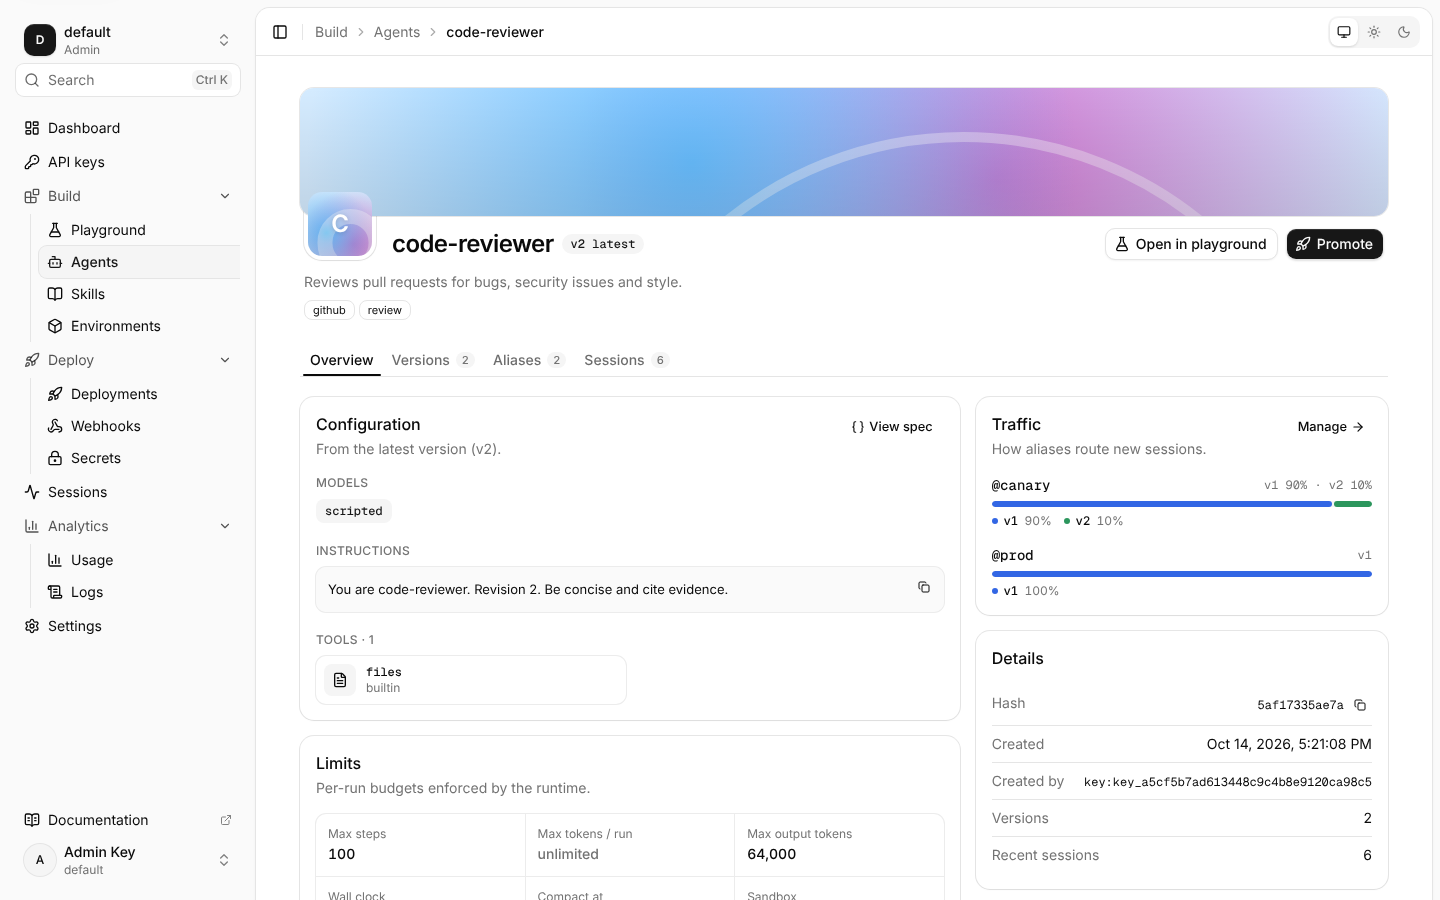
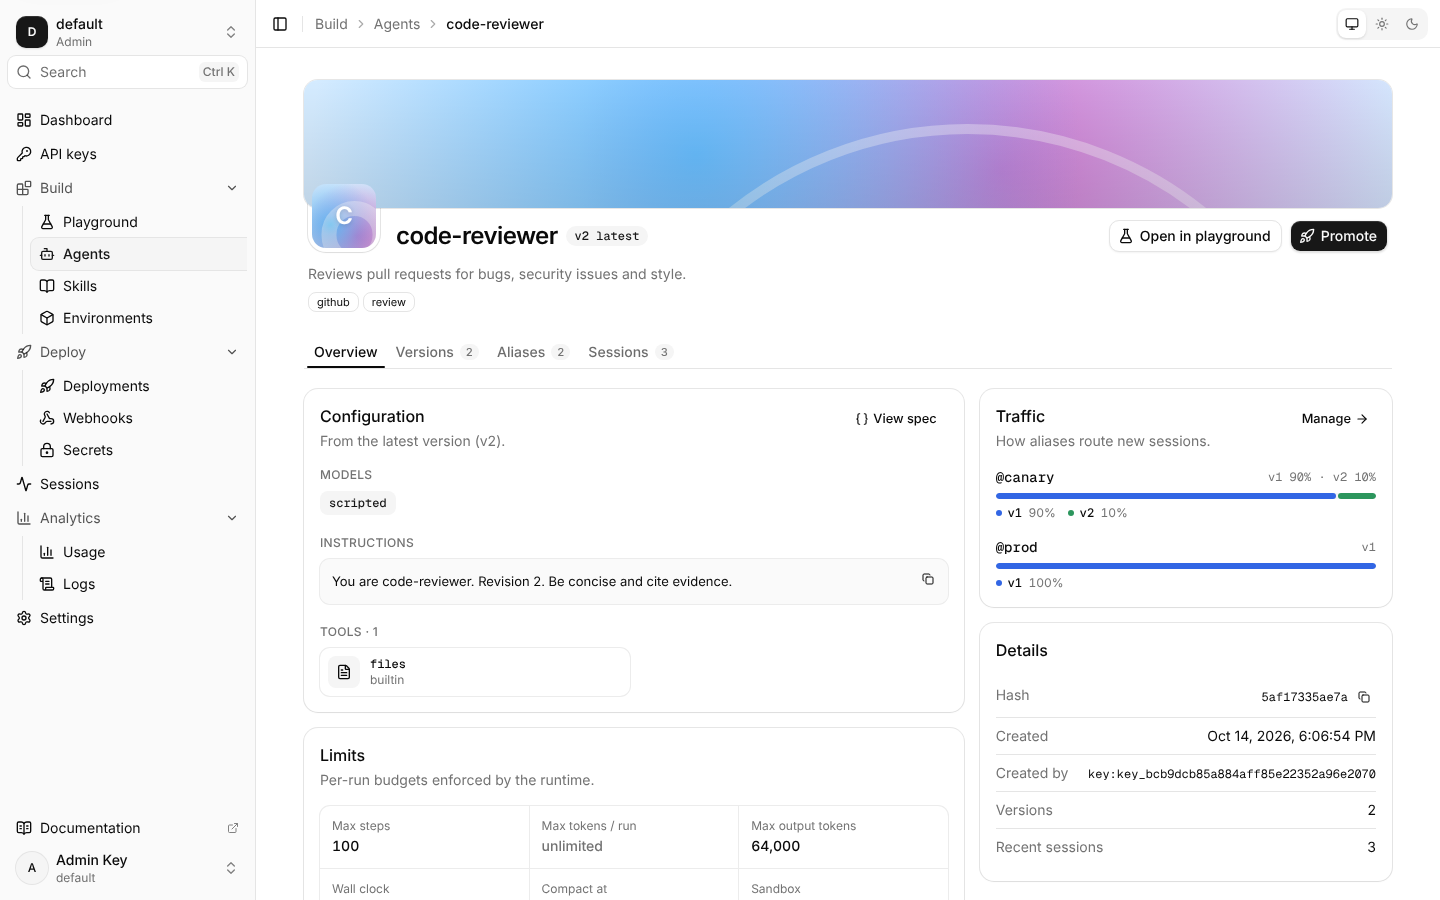
Use the standard sidebar variant in the dashboard
Switch the console sidebar from "inset" to "sidebar": it now runs the
full height of the window with a border, and the content area fills the
rest instead of sitting in a rounded card. The header drops its rounded
top to match.

Sidebar avatars no longer shrink when the sidebar collapses to icons.
Screenshots are retaken with the new layout.

diff --git a/dashboard/components/shell/app-sidebar.tsx b/dashboard/components/shell/app-sidebar.tsx
@@ -130,7 +130,7 @@ function ProjectSwitcher() {
           />
         }
       >
-        <div className="flex aspect-square size-8 items-center justify-center rounded-lg bg-sidebar-primary text-xs font-semibold text-sidebar-primary-foreground shadow-button">
+        <div className="flex aspect-square size-8 shrink-0 items-center justify-center rounded-lg bg-sidebar-primary text-xs font-semibold text-sidebar-primary-foreground shadow-button">
           {initials(project.name)}
         </div>
         <div className="grid flex-1 text-left leading-tight">
@@ -196,7 +196,7 @@ function UserFooter() {
       <DropdownMenuTrigger
         render={<SidebarMenuButton size="lg" className="data-popup-open:bg-sidebar-accent" />}
       >
-        <div className="flex size-8 items-center justify-center rounded-full bg-sidebar-accent text-xs font-medium ring-1 ring-sidebar-border">
+        <div className="flex size-8 shrink-0 items-center justify-center rounded-full bg-sidebar-accent text-xs font-medium ring-1 ring-sidebar-border">
           {initials(project.role)}
         </div>
         <div className="grid flex-1 text-left leading-tight">
@@ -233,7 +233,7 @@ function UserFooter() {
 export function AppSidebar({ onSearch }: { onSearch: () => void }) {
   const pathname = usePathname()
   return (
-    <Sidebar variant="inset" collapsible="icon">
+    <Sidebar variant="sidebar" collapsible="icon">
       <SidebarHeader className="gap-2">
         <SidebarMenu>
           <SidebarMenuItem>

diff --git a/dashboard/components/shell/app-shell.tsx b/dashboard/components/shell/app-shell.tsx
@@ -8,7 +8,7 @@ import { CommandMenu } from "./command-menu"
 import { SiteHeader } from "./site-header"
 import { ProjectProvider, type ProjectInfo } from "./project-context"
 
-/** Signed-in console chrome: inset sidebar, sticky header, command menu. */
+/** Signed-in console chrome: sidebar, sticky header, command menu. */
 export function AppShell({
   project,
   defaultOpen,
@@ -30,7 +30,7 @@ export function AppShell({
         </a>
         <SidebarProvider defaultOpen={defaultOpen}>
           <AppSidebar onSearch={() => setSearchOpen(true)} />
-          <SidebarInset className="min-w-0 md:peer-data-[variant=inset]:shadow-card md:peer-data-[variant=inset]:ring-1 md:peer-data-[variant=inset]:ring-sidebar-border">
+          <SidebarInset className="min-w-0">
             <SiteHeader />
             <div id="main" tabIndex={-1} className="flex flex-1 flex-col outline-none">
               {children}

diff --git a/dashboard/components/shell/site-header.tsx b/dashboard/components/shell/site-header.tsx
@@ -42,7 +42,7 @@ export function SiteHeader() {
   const pathname = usePathname()
   const crumbs = crumbsFor(pathname)
   return (
-    <header className="sticky top-0 z-20 flex h-12 shrink-0 items-center gap-2 border-b bg-background/80 px-3 backdrop-blur-md supports-backdrop-filter:bg-background/65 md:rounded-t-xl">
+    <header className="sticky top-0 z-20 flex h-12 shrink-0 items-center gap-2 border-b bg-background/80 px-3 backdrop-blur-md supports-backdrop-filter:bg-background/65">
       <SidebarTrigger className="-ml-0.5" />
       <Separator orientation="vertical" className="mr-1 data-vertical:h-4 data-vertical:self-center" />
       <Breadcrumb className="min-w-0 flex-1">

diff --git a/dashboard/README.md b/dashboard/README.md
@@ -48,7 +48,7 @@ It is a Next.js 16 App Router app scaffolded with `npx shadcn@latest init --pres
   - the sidebar collapses on an ease-out curve.
 
   Pages fade in through `app/(console)/template.tsx`. `components/motion.tsx` has `FadeIn`, `Stagger`, `AnimatedNumber` and `Expand`. The sidebar's active item is a pill that glides between links, and theme switches reveal as a circle from the click (View Transitions). Everything honours `prefers-reduced-motion`.
-- **Shell.** An inset sidebar collapses to icons (Ctrl/⌘+B). It has a project switcher, Ctrl/⌘+K search across pages, agents and actions, breadcrumbs, a theme switch, and a footer with docs and the signed-in key.
+- **Shell.** A full-height sidebar collapses to icons (Ctrl/⌘+B). It has a project switcher, Ctrl/⌘+K search across pages, agents and actions, breadcrumbs, a theme switch, and a footer with docs and the signed-in key.
 
 ![Dark mode](docs/dashboard-dark.png)
 
